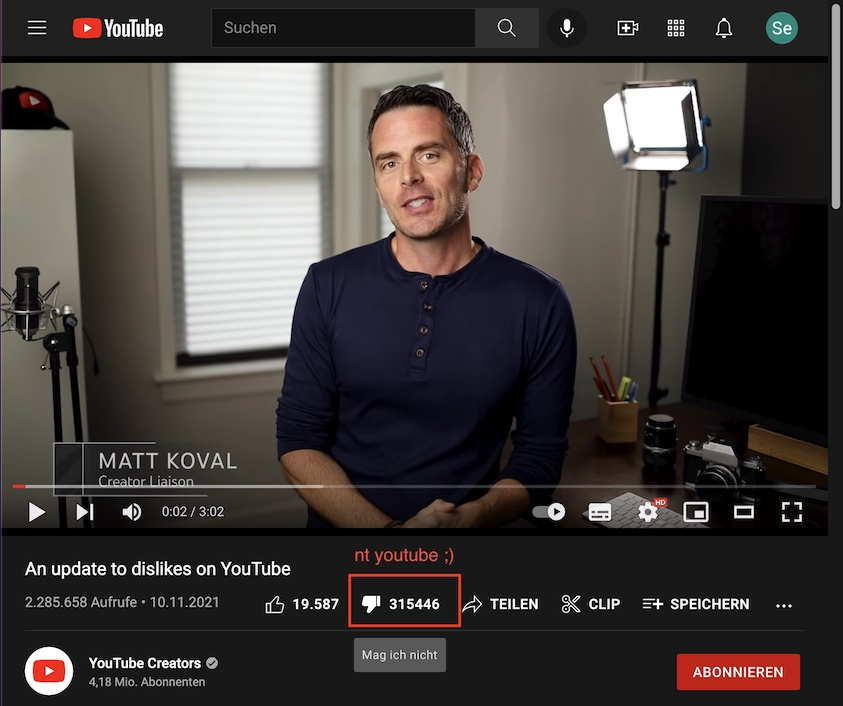
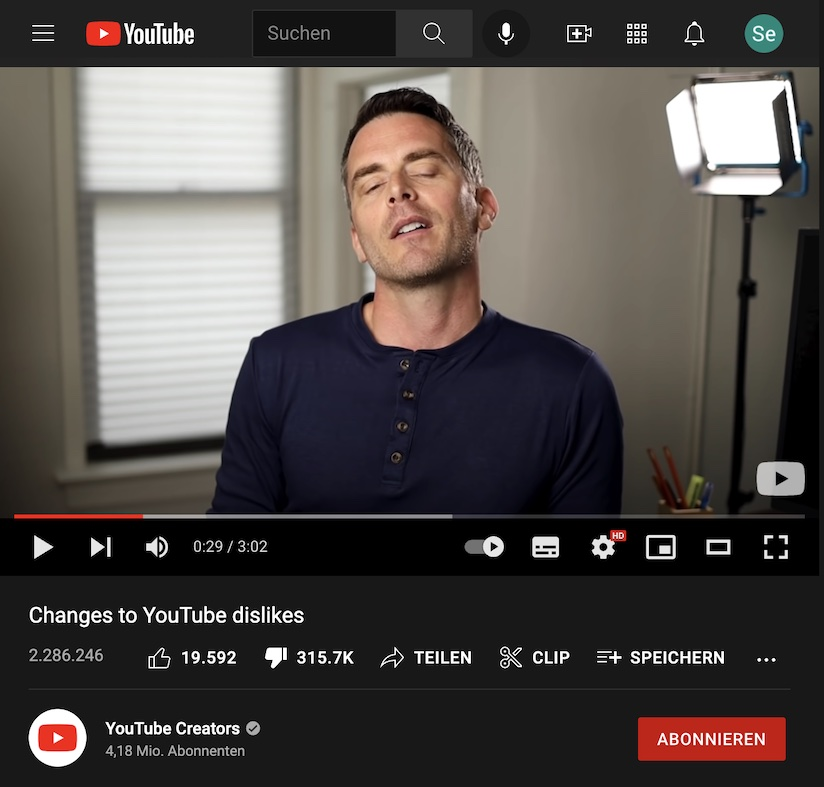
✨ added VERY simpüle formatting to dislike count

diff --git a/src/content_script.tsx b/src/content_script.tsx
@@ -77,8 +77,17 @@ function requestDislikeCount($dislikeButton: Element) {
 }
 
 function setDislikeCount(dislikeCount: number, $dislikeButton: Element) {
+  let formattedDislikes = `${dislikeCount}`;
+
+  // basic formatting
+  if (dislikeCount > 1000000) {
+    formattedDislikes = `${(dislikeCount / 1000000).toFixed(2)}M`;
+  } else if (dislikeCount > 100000) {
+    formattedDislikes = `${(dislikeCount / 1000).toFixed(1)}K`;
+  }
+
   const $buttonText = getDislikeButtonText($dislikeButton);
-  $buttonText.innerHTML = dislikeCount.toString();
+  $buttonText.innerHTML = formattedDislikes;
 }
 
 function main() {
